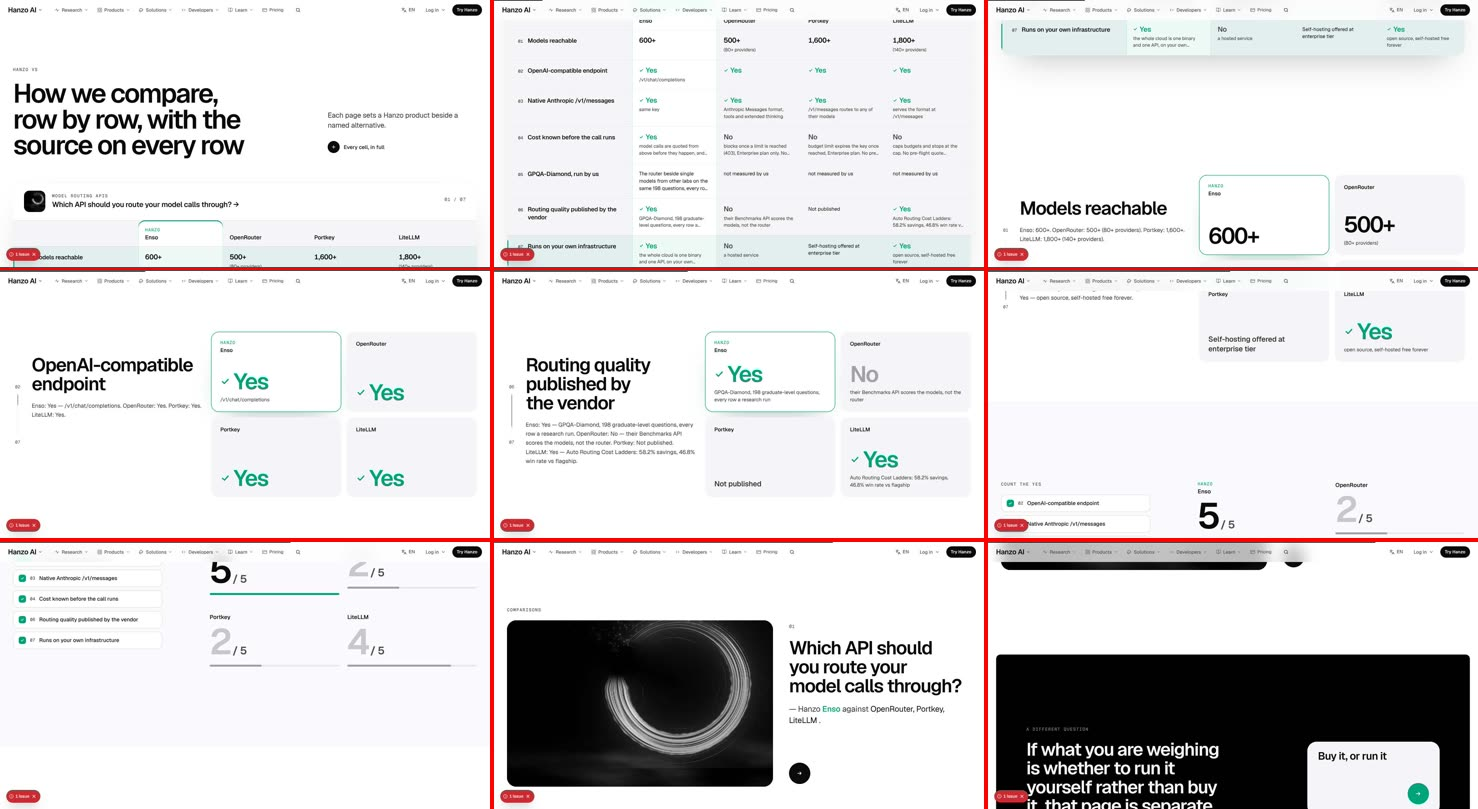
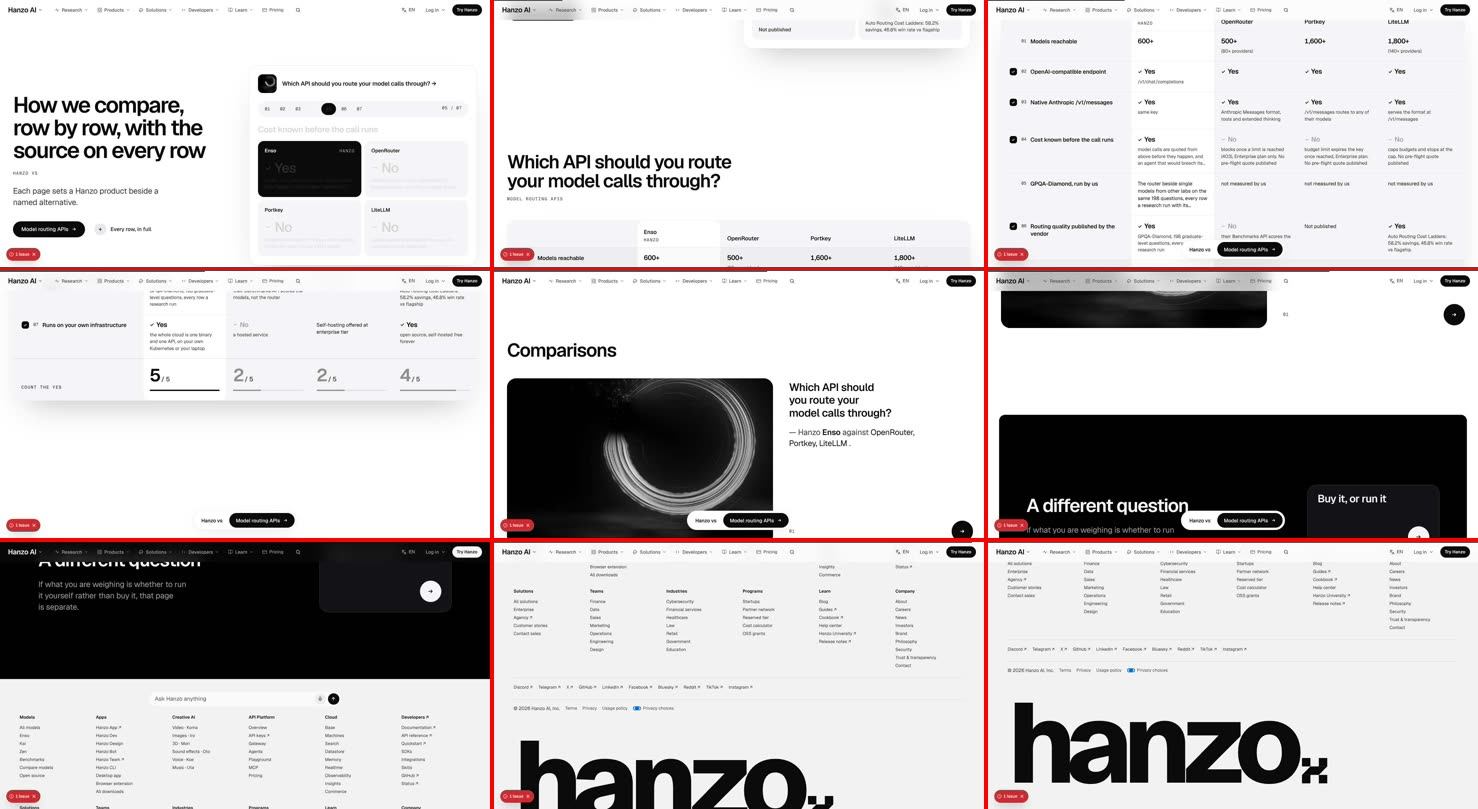
review: /compare 7/10 after rework (table wall, phone table)
Claude-Session: https://claude.ai/code/session_01DqUybDEA5FZ4ZbAGVya4QA

diff --git a/docs/review/compare.md b/docs/review/compare.md
@@ -1,45 +1,43 @@
 # /compare — James-eye review
 
-Verdict: 5/10
-First complaint: "Green ticks, green Yes, green borders. I said no green, and no colour in the UI at all."
+Verdict: 7/10
+First complaint: "The board up top is lovely, then it turns into a spreadsheet of tiny grey sentences. One thing at a time."
 
-Walked 7 Nov, page file at `fc10b3d` (`components/pages/Compare.jsx`, `Compare.css`), on the preview of main plus the Proof branch. Filmed moving at 1470×801 and 375×812 (wheel and finger scroll, dwell on every screen, hover and press on desktop, taps on phone), plus reduced motion and JS off. Stills: `review/compare/desktop-walk.jpg`, `review/compare/phone-walk.jpg`.
+Walked 7 Nov (second walk, after the rework to greys), page file at `b6f73d1` (`components/pages/Compare.jsx`, `Compare.css`), on the preview of main plus the Proof branch. Filmed moving at 1470×801 and 375×812 (wheel and finger scroll, dwell on every screen, hover and press on desktop, taps on phone), plus reduced motion and JS off. Stills: `review/compare/desktop-walk.jpg`, `review/compare/phone-walk.jpg`. The machine was overloaded, so motion is judged from frames.
 
 ## What works
-- The row chapters are a real scene. One routing question pins on the left while a four-lane board flips Enso, OpenRouter, Portkey and LiteLLM to that row's answer. One comes in, one goes out, seven times.
-- "Count the Yes" is a good Beyond: untick a row and the tallies (5/5, 2/5, 2/5, 4/5) recount as giant figures. It is built only from the table's cells.
-- It is honest. Enso's 600+ sits beside Portkey's 1,600+ and LiteLLM's 1,800+, and "Not published" and "not measured by us" are shown. That is the candour the brief asks for.
-- The Enso film still on the comparison card is real Hanzo media. The one dark room ("A different question") closes it well.
-- Parity: text 28/28, links 2/2. CLS 0.007. Reduced motion leaves 0 running animations. Every desktop hover answered; press scales to .98.
+- The colour is gone. Greys, ink and white only. The Enso film still is the one image.
+- The hero now has a live object. The verdict board walks rows 01–07 on its own: the pill glides, the four lanes flip to that row's answer, and Enso's lane is raised in ink. It moves without input and pauses under the hand.
+- One ask, "Model routing APIs →" (Hanzo's words), in the hero, plus a desktop pill ("Hanzo vs · Model routing APIs") that stays after the hero.
+- "HANZO VS" moved under the headline as a caption, so there is no eyebrow over the h1.
+- "Count the Yes" still works (5/5, 2/5, 2/5, 4/5 recount as you untick rows). It is honest: Enso's 600+ sits beside 1,600+ and 1,800+.
+- Parity: text 28/28, links 2/2. CLS 0 on desktop, 0.01 on phone. Reduced motion leaves 0 running animations. Hovers answer; the ask lifts 1px and darkens.
 
 ## The 11 answers
-1. **Sells in 5 seconds, moves within 1 second?** Half. The headline reads well, but at 1470×801 the table object is only a header row peeking at the bottom. Once the lines have cut in, the only movement is a thin reading line walking the rows, mostly under the fold.
-2. **One in, one out, or a document?** One in, one out through the seven row chapters. That is the best part.
-3. **A real visual object in every section?** Mostly: the table, the verdict board, the tally figures and the Enso card. The hero itself has no object above the fold at 1470×801.
-4. **One ask, sticky after the hero?** No page ask at all. The hero's only control is a small "+ Every cell, in full" link. Desktop: just the site header's "Try Hanzo". Phone: a "Try Hanzo →" thumb bar under a header that also says "Try Hanzo", so the same solid button shows twice.
-5. **Every hover and press answers, no jumps?** Desktop yes. Phone: tapping rows 03 and 06 in the full-table sheet gave no response.
-6. **Overlaps, font swap or layout shift?** No overlaps, no swap, shift 0.007. JS off: 16 of 28 text blocks stay invisible.
-7. **Which reference, is its motion there?** The pinned chapters are Apple's pattern and they are there. synchronized.studio is claimed for the comparison card, but the Enso card lands on `/compare/model-routing`, a plain text page with no image. The card does not become its hero.
-8. **Different from neighbours?** Barely. It is the same frame as /comparison, /philosophy, /research and /security: white page, mono kicker, headline left, object right. Only the accent colour changes from page to page.
+1. **Sells in 5 seconds, moves within 1 second?** Yes. Headline, one ask and a board that is already flipping.
+2. **One in, one out, or a document?** The hero is a scene. After it, the page is a document: a full seven-row table with a sentence under every cell, then the tally, a card and the dark room. The row-per-screen chapters are gone, so nothing hands over to the next thing as you scroll.
+3. **A real visual object in every section?** Board, tally figures, Enso card: yes. The table is a wall of 13px text, not an object.
+4. **One ask, sticky after the hero?** Desktop: yes, the pill. But it sits under a solid "Try Hanzo" in the site header, so two different solid asks show together. Phone: the ask is in the hero only. After that there is just the header's "Try Hanzo", and no thumb bar for "Model routing APIs".
+5. **Every hover and press answers, no jumps?** Yes on desktop, and the row switches answer taps on phone. The press on the ask does not scale or drop (hover lift only).
+6. **Overlaps, font swap or layout shift?** None seen. Phone: the table runs off the right edge and you scroll it sideways with columns cut ("Op…"). JS off: 16 of 22 text blocks stay invisible.
+7. **Which reference, is its motion there?** The board is motion.dev's toggle pill, done well. Apple's one-idea-per-screen is gone below the hero. synchronized.studio is claimed for the Enso card, but it lands on `/compare/model-routing`, a plain text page without the image.
+8. **Different from neighbours?** Partly. Same frame as /comparison, /research and /security (white page, headline left, card right). The live board does give it its own hero object.
 9. **18 areas (PLAN-COMPONENTS)?** See below. No `docs/coverage/compare.md`.
-10. **Banned tells?** Yes:
-    - green as the UI accent (`#00a37a` on every Yes, tick, border, tint and the dark room's arrow button). "Green accents" is on his reject list, and JAMES.md allows 0 UI hues;
-    - eyebrows over the h1 ("HANZO VS") and over each block ("MODEL ROUTING APIS", "COUNT THE YES", "COMPARISONS", "A DIFFERENT QUESTION");
-    - those mono labels are the page's `<h2>`s, so the outline is labels, not headlines.
-11. **Copy untouched?** Yes. Parity is clean, and every figure (600+, 500+, 1,600+, 1,800+, 198 questions, 58.2%, 46.8%) sits with its source cell.
+10. **Banned tells?** Clutter: an explaining sentence under every Yes and No in the table. The other tells are cleared.
+11. **Copy untouched?** Yes. Parity clean; every figure (600+, 500+, 1,600+, 1,800+, 198 questions, 58.2%, 46.8%) sits in its source cell.
 
 ## Missing from the 18 areas
-- **2.3 First impression:** no hero object above the fold at 1470×801, and no closing Band with one solid button in Hanzo's words.
-- **2.3 Morph:** the card's Enso image does not reach the destination. The landing page is unstyled text.
-- **2.4 Conversion:** no page ask, no desktop sticky ask, and the button repeats on phone (header plus thumb bar).
-- **2.7 Visual system:** green accent. Teal-green also breaks the rule that status colour comes with a shape cue, because here the colour is the decoration.
-- **2.12 Accessibility:** the mono labels are the `h2`s. The real headlines ("OpenAI-compatible endpoint" and the rest) are not headings in order.
+- **2.3 First impression:** the h1 is 67px, below the Display step (CANON h1 is about 106px at this width). The board wins the squint test, not the headline. No closing Band with the one solid ask (the dark room ends on a round arrow icon).
+- **2.3 Morph:** the card's Enso image does not reach the destination hero.
+- **2.4 Conversion:** no phone thumb bar for the page's ask. Header and pill compete on desktop.
+- **2.6 Content:** the full table sits in the main scroll. The plan puts long tables behind a tab or sheet, and the page already has "Every row, in full".
+- **2.15 / 2.11 Phone:** a sideways-scrolling table instead of list rows.
 - **2.17 States:** most text is hidden with JS off.
-- **2.18 Measurement:** no `Persona:` / `Goal:` / `CTA:` header lines, no `data-cta`.
+- **2.18 Measurement:** no `Persona:` / `Goal:` / `CTA:` lines, no `data-cta`.
 
 ## Fixes (in order)
-1. **Take the green out.** "Yes" in ink at full weight, "No" at 40% grey, ticks as ink glyphs, no tinted rows or coloured borders. Hanzo's column is raised by weight and a hairline, not by colour. The dark room's arrow button goes white on black.
-2. **Remove the eyebrows.** Delete "HANZO VS" over the h1 and the mono labels over each block. If the label must stay for meaning, put it after the headline as a quiet meta line. Make the real headlines the `h2`s.
-3. **Put the object on the first screen at 1470×801.** Bring the table up so at least four rows sit under the headline, with the reading line visibly walking them, or set the table beside the headline at 7/5. Something should be moving in view the moment the lines land.
-4. **Give the page one ask.** Use Hanzo's existing label for the hero and the closing dark room, as one solid button (not a round icon). Show the desktop sticky version after the hero. On phone, drop the duplicate: header or thumb bar, not both.
-5. **Make the card open into a real hero.** Coordinate with the `/compare/*` family owner so the Enso image and the question title land as the destination hero, not on a text page.
+1. **Fold the table into the sheet.** The full sentences already live behind "Every row, in full". In the main scroll, keep only Yes or No per cell (ink and 40% grey) with the row name. Or bring back one row per screen, with the board pinned as you scroll.
+2. **Phone gets list rows, not a table.** One row per card: the row name, then Enso, OpenRouter, Portkey and LiteLLM stacked, each Yes or No, and the sentence on tap.
+3. **One ask everywhere.** Add the phone thumb bar for "Model routing APIs →". End the dark room on the same solid ask, not a round icon. Give the ask a press state (scale .98 or a 1px drop).
+4. **Let the headline lead.** Raise the h1 to the Display step (about 96–112px at 1470) and let the board take the 5 columns beside it, so the words are the first mass and the board the second.
+5. **Make the card land.** Ask the `/compare/*` family owner for the Enso image and the question title as that page's hero, so the click is continuous.
